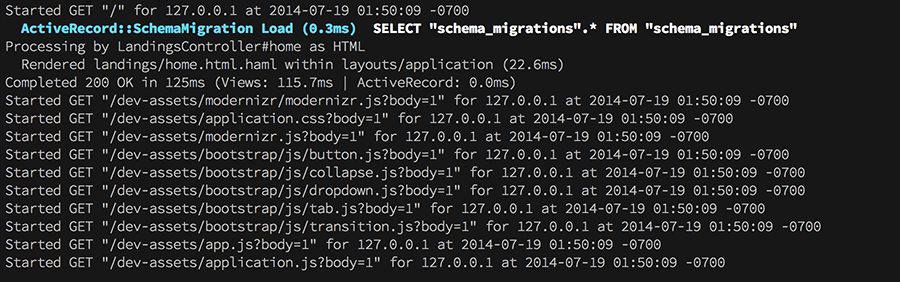
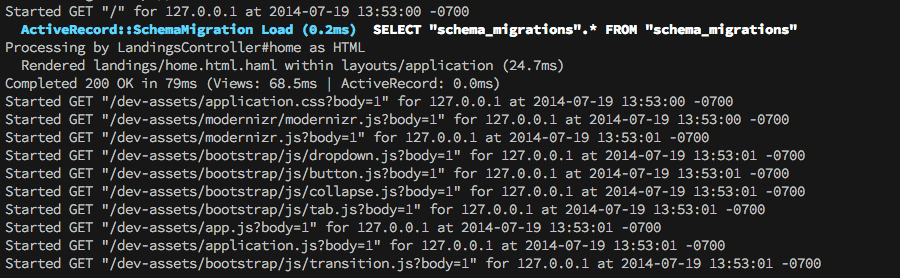
Fix time formatter not highlighting large values when original is colorized

Changed region(s): [[0.0, 0.0, 0.9333, 0.9784]]

diff --git a/lib/shog/formatters/requests.rb b/lib/shog/formatters/requests.rb
@@ -13,13 +13,13 @@ module Shog
           # Highlight HTTP request methods
           match /Started\s+(?<method>PUT|PATCH|GET|POST|DELETE)\s+(?<path>"[^"]*")[^\d\.]+(?<ip>[\d\.]+)(?<time>.*)/ do |msg,match|
             # http://refiddle.com/ge6
-            "#{match["method"].ljust 6} ".green.bold + " #{match["path"]} ".white.bold + " for " + "#{match["ip"]}".yellow + " #{match["time"]}".black.bold
+            "#{match["method"].ljust 6} ".green.bold + " #{match["path"]} ".white.bold + " for " + "#{match["ip"]}".yellow + " #{match["time"]}".black
           end
 
           # Dim detailed info about rendering views
           match /\s*Rendered\s+(?<view>[^\s]+)\swithin\s(?<layout>[^\s]+)\s\((?<time>.*)\)/ do |msg,match|
             # http://refiddle.com/18qr
-            "  Rendered #{ match["view"] } within ".black + match["layout"].black.bold + " " + format_time( match['time'].black )
+            "  Rendered #{ match["view"].bold }".black + " within ".black + match["layout"].black.bold + " " + format_time( match['time'].black )
           end
 
           # Highlight the final rendered response
@@ -34,7 +34,7 @@ module Shog
             parts << match['friendly'].yellow
             parts << 'in'
             parts << format_time( match['time'], 250 )
-            parts << match['details']
+            parts << match['details'].black
 
             parts.join(" ")
           end
@@ -47,9 +47,6 @@ module Shog
 
         end
       end
-
-
-
 
     end
   end

diff --git a/lib/shog/formatter.rb b/lib/shog/formatter.rb
@@ -79,10 +79,10 @@ module Shog
     # @param [Float] expected maximum amount of time it should have taken.
     # @return [String] the formatted time.
     def format_time( time, expected = 30 )
-      timef = time.to_f
+      timef = time.uncolorize.to_f
       case
-      when timef > expected * 2 then time.to_s.red
-      when timef > expected     then time.to_s.yellow
+      when timef > expected * 2 then time.to_s.uncolorize.red
+      when timef > expected     then time.to_s.uncolorize.yellow
       else time
       end
     end
@@ -161,7 +161,7 @@ module Shog
     # Resets any previously configured formatting settings.
     # @return [Formatter] self.
     def reset_config!
-      @configuration ||= {
+      @configuration = {
         severity_tags: {},
         severities: {},
         matchers: {},

diff --git a/spec/lib/shog/formatter_spec.rb b/spec/lib/shog/formatter_spec.rb
@@ -70,6 +70,10 @@ describe Shog::Formatter do
       expect( formatter.format_time( "50ms", 30 ) ).to eq "50ms".yellow
     end
 
+    it "is yellow when above expected and has existing color" do
+      expect( formatter.format_time( "50ms".black, 30 ) ).to eq "50ms".yellow
+    end
+
     it "is red when way above expected" do
       expect( formatter.format_time( "150ms", 30 ) ).to eq "150ms".red
     end

diff --git a/lib/shog/extensions.rb b/lib/shog/extensions.rb
@@ -1,0 +1,17 @@
+module Shog
+  module Extensions
+    module Colored
+      extend self
+
+      # Removes any ASCII color encoding
+      def uncolorize
+        # http://refiddle.com/18rj
+        gsub /\e\[\d+(;\d+)*m/, ''
+      end
+
+
+    end
+  end
+end
+
+String.send :include, Shog::Extensions::Colored

diff --git a/lib/shog.rb b/lib/shog.rb
@@ -2,6 +2,7 @@ require 'shog/version'
 require 'shog/formatter'
 require 'shog/formatters'
 require 'shog/rails'
+require 'shog/extensions'
 
 module Shog
 
